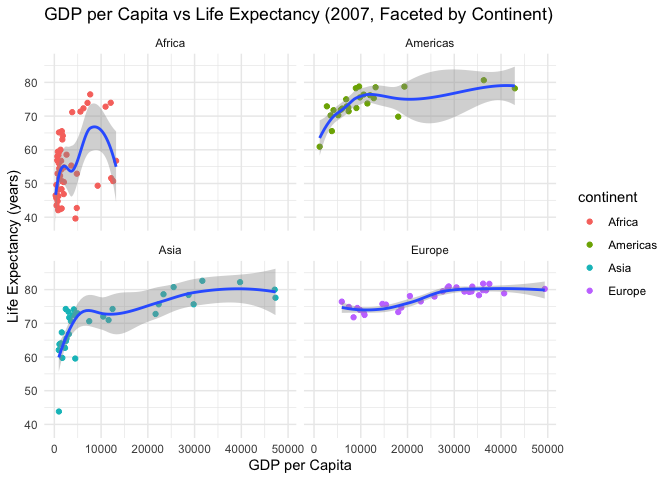
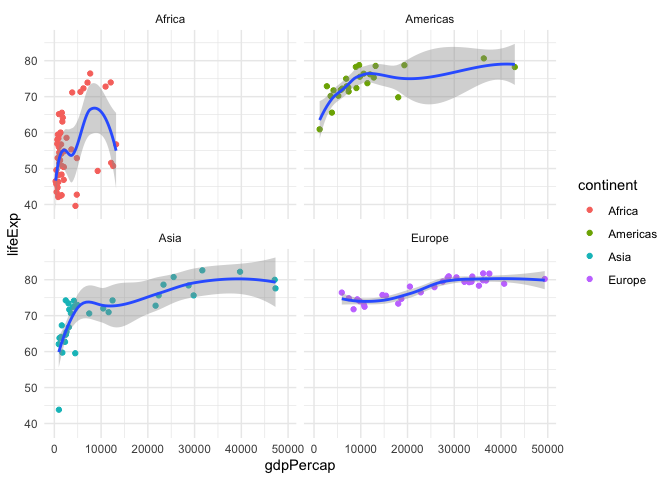
redoing the assignment 5

diff --git a/problem_sets/assignment_5.md b/problem_sets/assignment_5.md
@@ -2,7 +2,7 @@
 
 
 ``` r
-library(tidyverse)
+library(tidyverse) 
 ```
 
     ── Attaching core tidyverse packages ──────────────────────── tidyverse 2.0.0 ──
@@ -19,7 +19,10 @@ library(tidyverse)
 ``` r
 library(knitr)
 
-#install.packages("gapminder")
+library(gapminder) #install.packages("gapminder")
+
+
+library(readr)
 ```
 
 # **Assignment 5: Data transformation and visualization - Part 2**
@@ -55,17 +58,20 @@ housing %>%
 | AK | West | 2008.25 | 233714 | 157458 | 76256 | 32.6 | 1.538 | 1.817 | 2008 | 1 |
 
 ``` r
-housing <- read_csv("https://raw.githubusercontent.com/nt246/NTRES-6100-data-science/master/datasets/landdata_states.csv")
+head(housing)
 ```
 
-    Rows: 7803 Columns: 11
-    ── Column specification ────────────────────────────────────────────────────────
-    Delimiter: ","
-    chr (2): State, region
-    dbl (9): Date, Home.Value, Structure.Cost, Land.Value, Land.Share..Pct., Hom...
-
-    ℹ Use `spec()` to retrieve the full column specification for this data.
-    ℹ Specify the column types or set `show_col_types = FALSE` to quiet this message.
+    # A tibble: 6 × 11
+      State region  Date Home.Value Structure.Cost Land.Value Land.Share..Pct.
+      <chr> <chr>  <dbl>      <dbl>          <dbl>      <dbl>            <dbl>
+    1 AK    West   2010.     224952         160599      64352             28.6
+    2 AK    West   2010.     225511         160252      65259             28.9
+    3 AK    West   2010.     225820         163791      62029             27.5
+    4 AK    West   2010      224994         161787      63207             28.1
+    5 AK    West   2008      234590         155400      79190             33.8
+    6 AK    West   2008.     233714         157458      76256             32.6
+    # ℹ 4 more variables: Home.Price.Index <dbl>, Land.Price.Index <dbl>,
+    #   Year <dbl>, Qrtr <dbl>
 
 ### 1.1 Washington DC was not assigned to a region in this dataset. According to the United States Census Bureau, however, DC is part of the South region. Here:
 
@@ -220,7 +226,7 @@ ggplot(mean_land_values, aes(x = Date, y = mean_land_value, color = region)) +
 ## Exercise 2. Life expectancy and GDP per capita 1952-2007
 
 ``` r
-library(gapminder) #install.packages(gapminder)
+#library(gapminder) #install.packages("gapminder")
 gapminder %>%
   head() %>% 
   kable()
@@ -236,8 +242,19 @@ gapminder %>%
 | Afghanistan | Asia      | 1977 |  38.438 | 14880372 |  786.1134 |
 
 ``` r
-library(gapminder)
+gapminder %>% 
+  head() %>% 
+  kable()
 ```
+
+| country     | continent | year | lifeExp |      pop | gdpPercap |
+|:------------|:----------|-----:|--------:|---------:|----------:|
+| Afghanistan | Asia      | 1952 |  28.801 |  8425333 |  779.4453 |
+| Afghanistan | Asia      | 1957 |  30.332 |  9240934 |  820.8530 |
+| Afghanistan | Asia      | 1962 |  31.997 | 10267083 |  853.1007 |
+| Afghanistan | Asia      | 1967 |  34.020 | 11537966 |  836.1971 |
+| Afghanistan | Asia      | 1972 |  36.088 | 13079460 |  739.9811 |
+| Afghanistan | Asia      | 1977 |  38.438 | 14880372 |  786.1134 |
 
 ### 2.1 Use a scatterplot to explore the relationship between per capita GDP (gdpPercap) and life expectancy (lifeExp) in the year 2007.
 
@@ -299,9 +316,6 @@ gapminder %>%
   geom_point(aes(color = continent)) +
   geom_smooth() +
   facet_wrap(~ continent) +
-  ggtitle("GDP per Capita vs Life Expectancy (2007, Faceted by Continent)") +
-  xlab("GDP per Capita") +
-  ylab("Life Expectancy (years)") +
   theme_minimal()
 ```
 
@@ -314,14 +328,67 @@ gapminder %>%
   filter(year == 2007, continent != "Oceania") %>% ggplot(aes(x = gdpPercap, y = lifeExp, color = continent)) +
   geom_point() +
   geom_smooth(se = TRUE) +  
-  facet_wrap(~ continent) +
-  labs(
-    title = "GDP per Capita vs Life Expectancy (2007, Faceted by Continent)",
-    x = "GDP per Capita",
-    y = "Life Expectancy (years)"
-  )
+  facet_wrap(~ continent)
 ```
 
     `geom_smooth()` using method = 'loess' and formula = 'y ~ x'
 
 ![](assignment_5_files/figure-commonmark/unnamed-chunk-10-2.png)
+
+### 2.5 Explore the trend in life expectancy through time in each continent. Color by continent.
+
+``` r
+ggplot(gapminder, aes(x = year, y = lifeExp, color = continent)) +
+  stat_summary(fun = "mean", geom = "line", size = 1.2) +
+  labs(title = "Life Expectancy Over Time by Continent",
+       x = "Year",
+       y = "Life Expectancy (years)") +
+  theme_minimal()
+```
+
+![](assignment_5_files/figure-commonmark/unnamed-chunk-11-1.png)
+
+``` r
+ggplot(gapminder, aes(x = year, y = lifeExp, group = country,color = continent)) +
+  #geom_line(aes(color = continent))+
+  stat_summary(fun = "mean", geom = "line", size = 1) +   
+  facet_wrap(~continent) +
+  theme_minimal() +
+  theme(legend.position = "none")
+```
+
+![](assignment_5_files/figure-commonmark/unnamed-chunk-11-2.png)
+
+### 2.6 From the previous plot, we see some abnormal trends in Asia and Africa, where the the life expectancy in some countries sharply dropped at certain time periods. Here, we look into what happened in Asia in more detail. First, create a new dataset by filtering only the Asian countries. Show the first 6 lines of this filtered dataset.
+
+``` r
+asia_data <- gapminder %>%
+  filter(continent == "Asia")
+
+view(asia_data)
+
+
+head(asia_data)
+```
+
+    # A tibble: 6 × 6
+      country     continent  year lifeExp      pop gdpPercap
+      <fct>       <fct>     <int>   <dbl>    <int>     <dbl>
+    1 Afghanistan Asia       1952    28.8  8425333      779.
+    2 Afghanistan Asia       1957    30.3  9240934      821.
+    3 Afghanistan Asia       1962    32.0 10267083      853.
+    4 Afghanistan Asia       1967    34.0 11537966      836.
+    5 Afghanistan Asia       1972    36.1 13079460      740.
+    6 Afghanistan Asia       1977    38.4 14880372      786.
+
+### 2.7 Using the filtered dataset, identify the countries that had abnormal trends in life expectancy by plotting, and discuss historical events possibly explaining these trends. (Hint: facet by country)
+
+Looking at the data, some countries in Asia experienced sharp drops in
+life expectancy during certain periods, while others saw steady
+increases. For example, Cambodia’s life expectancy fell dramatically in
+the late 1970s before recovering in the 1980s, and North Korea saw
+declines in the 1990s likely due to famine. In contrast, countries like
+Afghanistan, India, and China show a steady upward trend in life
+expectancy over the decades. These differences reflect the impacts of
+war, famine, political instability, and improvements in healthcare and
+living conditions.

diff --git a/README.md b/README.md
@@ -18,7 +18,7 @@ Please use the following table to grade the student's assignment:
 |      4      |        X        |                     |               |
 |      5      |                 |          X          |               |
 |      6      |                 |          X          |               |
-|      7      |                 |                     |      X         |
+|      7      |                 |                     |       X       |
 |      8      |                 |                     |               |
 |      9      |                 |                     |               |
 
